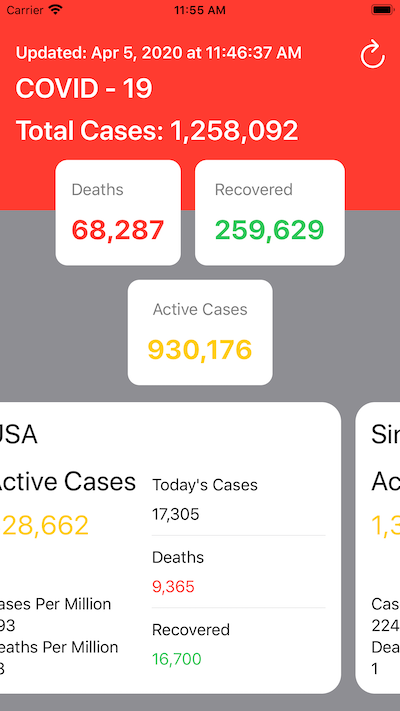
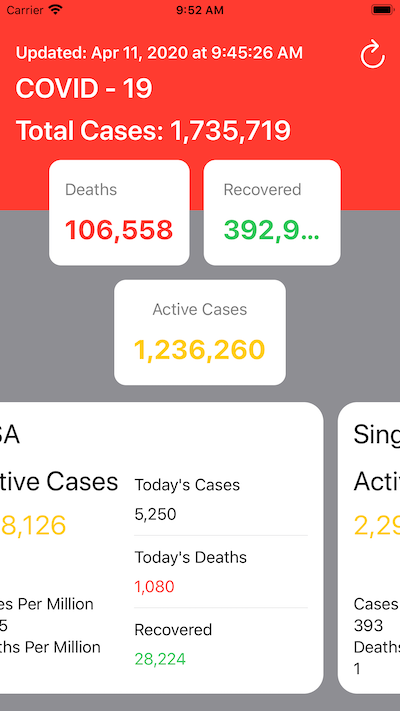
Change some stat usages

diff --git a/COVID/Model.swift b/COVID/Model.swift
@@ -42,6 +42,7 @@ struct Details : Decodable, Hashable {
     var cases: Int
     var todayCases: Int
     var deaths: Int
+    var todayDeaths: Int
     var recovered: Int
     var critical: Int
     var casesPerOneMillion: Double
@@ -57,6 +58,10 @@ struct Details : Decodable, Hashable {
 
     var deathsString: String {
         getIntString(data: deaths)
+    }
+
+    var todayDeathsString: String {
+        getIntString(data: todayDeaths)
     }
 
     var recoveredString: String {
@@ -134,7 +139,11 @@ fileprivate func getDoubleString(data: Double) -> String {
     return format.string(for: data)!
 }
 
-fileprivate func getIntString(data: Int) -> String {
+fileprivate func getIntString(data: Int?) -> String {
+
+    guard let data = data else {
+        return "0"
+    }
 
     let format = NumberFormatter()
     format.numberStyle = .decimal
@@ -149,7 +158,7 @@ extension URL {
     }
 
     fileprivate static var countriesDetail: URL {
-        URL(string: "https://corona.lmao.ninja/countries/usa,singapore,taiwan,korea,china,italy,spain")!
+        URL(string: "https://corona.lmao.ninja/countries/usa,singapore,taiwan,korea,china,italy,spain,sweden")!
     }
 
     fileprivate static func detail(for country: String) -> URL {

diff --git a/COVID/CellView.swift b/COVID/CellView.swift
@@ -66,10 +66,10 @@ struct cellView : View {
 
                     VStack(alignment: .leading, spacing: 10) {
 
-                        Text("Deaths")
+                        Text("Today's Deaths")
                         .foregroundColor(.black)
 
-                        Text(self.details.deathsString)
+                        Text(self.details.todayDeathsString)
                             .foregroundColor(.red)
                     }
 

diff --git a/README.md b/README.md
@@ -4,7 +4,7 @@ COVID is an iOS app written with SwiftUI. It tracks the current worldwide status
 
 
 
-<img src="Screenshot.png"
+<img src="Screenshot.png">
 
 
 ## License
